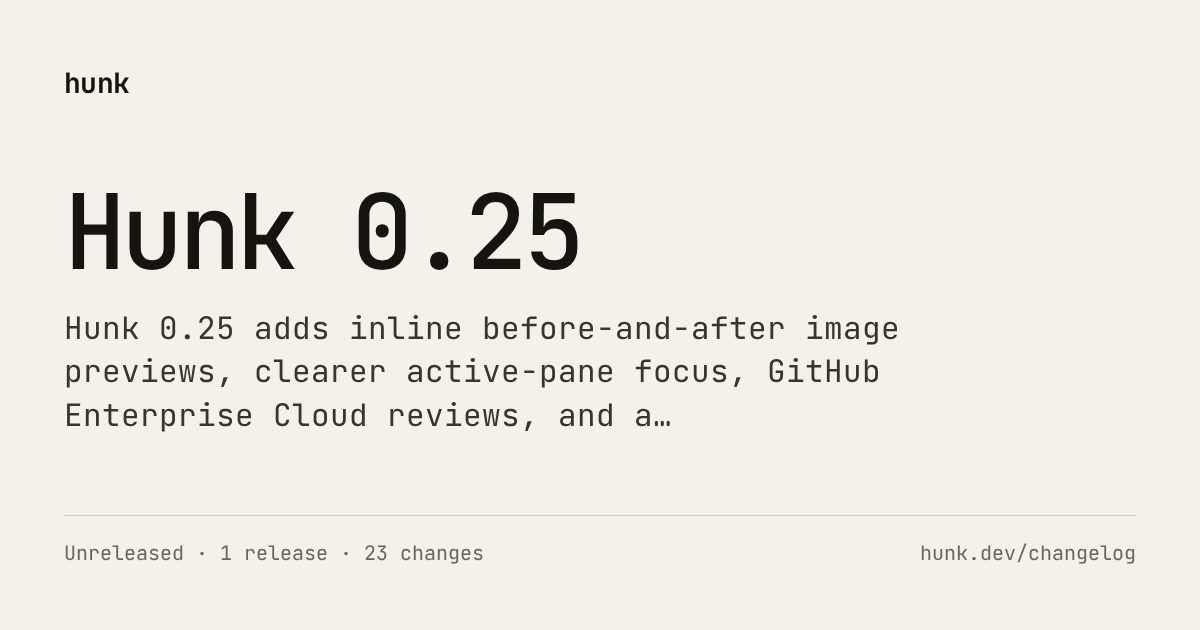
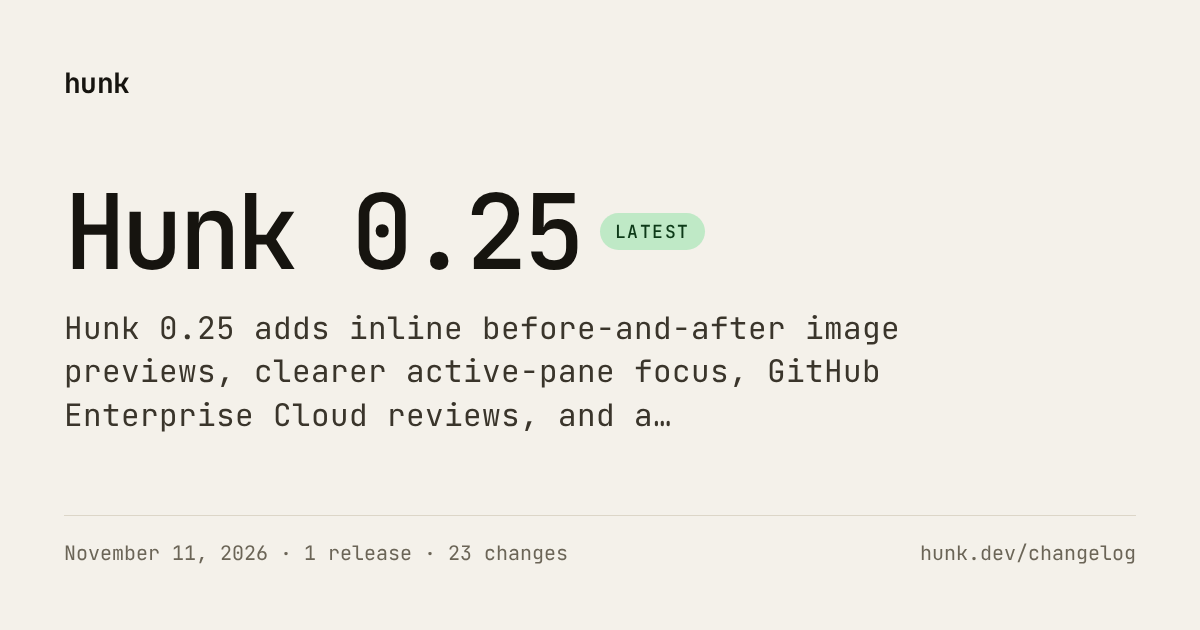
docs(changelog): publish generated 0.25 release pages (#1280)

Changed region(s): [[0.0617, 0.8444, 0.4625, 0.9048], [0.4933, 0.3317, 0.5858, 0.4222]]

diff --git a/website/src/content/docs/changelog/0.25.md b/website/src/content/docs/changelog/0.25.md
@@ -11,7 +11,7 @@ head:
   - tag: meta
     attrs:
       property: og:image:alt
-      content: "Hunk 0.25 release notes — Unreleased · 1 release · 23 changes"
+      content: "Hunk 0.25 release notes — November 11, 2026 · 1 release · 23 changes"
   - tag: meta
     attrs:
       name: twitter:image
@@ -20,9 +20,23 @@ head:
 
 <!-- GENERATED by `bun run generate:changelog`. Edit CHANGELOG.md or website/releases/notes.json instead. -->
 
-Unreleased · 1 release
+November 11, 2026 · 1 release
 
 Hunk 0.25 adds inline before-and-after image previews, clearer active-pane focus, GitHub Enterprise Cloud reviews, and a preview-and-confirm feedback form, while making patch parsing and everyday review interactions more resilient.
+
+New to Hunk? Use the default installer. It verifies downloads when release checksums and local tooling are available, and warns otherwise:
+
+```sh
+curl -fsSL https://hunk.dev/install.sh | sh
+```
+
+Already on Hunk 0.20 or newer with the default install script, npm, or Homebrew? Move to this release with Hunk's canonical update command:
+
+```sh
+hunk update
+```
+
+On an older Hunk release, update once through the installer or package manager that installed it, then use `hunk update`. mise, Nix, source, and custom-directory installs remain owned by their own update workflows. This is the current release; see [all install options](/docs/start/install/).
 
 ## Related documentation
 
@@ -38,7 +52,7 @@ Hunk 0.25 adds inline before-and-after image previews, clearer active-pane focus
 
 ### 0.25.0
 
-Unreleased
+November 11, 2026
 
 #### Minor Changes
 

diff --git a/website/src/content/docs/changelog/0.24.md b/website/src/content/docs/changelog/0.24.md
@@ -24,19 +24,11 @@ October 13, 2026 – October 24, 2026 · 4 releases
 
 Hunk 0.24 adds complete-file and directory browsing, a live workspace status view, npm-installed extensions, shell completions, and pane-aware automatic diff layout, while moving syntax highlighting off the review's main thread by default.
 
-New to Hunk? Use the default installer. It verifies downloads when release checksums and local tooling are available, and warns otherwise:
-
 ```sh
-curl -fsSL https://hunk.dev/install.sh | sh
+npm i -g hunkdiff@0.24.1
 ```
 
-Already on Hunk 0.20 or newer with the default install script, npm, or Homebrew? Move to this release with Hunk's canonical update command:
-
-```sh
-hunk update
-```
-
-On an older Hunk release, update once through the installer or package manager that installed it, then use `hunk update`. mise, Nix, source, and custom-directory installs remain owned by their own update workflows. This is the current release; see [all install options](/docs/start/install/).
+Hunk 0.24 is no longer the current release. See [the latest release](/changelog/) or [all install options](/docs/start/install/).
 
 ## Related documentation
 

diff --git a/website/src/content/docs/changelog/index.md b/website/src/content/docs/changelog/index.md
@@ -11,7 +11,7 @@ head:
   - tag: meta
     attrs:
       property: og:image:alt
-      content: "Hunk changelog — 24 release series · March 2026 – October 2026"
+      content: "Hunk changelog — 25 release series · March 2026 – November 2026"
   - tag: meta
     attrs:
       name: twitter:image
@@ -24,13 +24,13 @@ head:
 
 ## [Hunk 0.25](/changelog/0.25/)
 
-Unreleased · 1 release · 23 changes
+Latest · November 11, 2026 · 1 release · 23 changes
 
 Hunk 0.25 adds inline before-and-after image previews, clearer active-pane focus, GitHub Enterprise Cloud reviews, and a preview-and-confirm feedback form, while making patch parsing and everyday review interactions more resilient.
 
 ## [Hunk 0.24](/changelog/0.24/)
 
-Latest · October 13, 2026 – October 24, 2026 · 4 releases · 123 changes
+October 13, 2026 – October 24, 2026 · 4 releases · 123 changes
 
 Hunk 0.24 adds complete-file and directory browsing, a live workspace status view, npm-installed extensions, shell completions, and pane-aware automatic diff layout, while moving syntax highlighting off the review's main thread by default.
 
